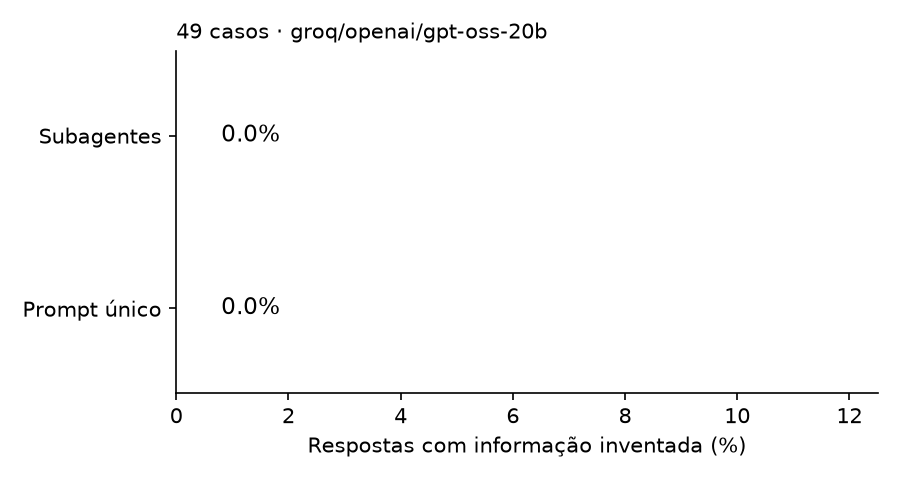
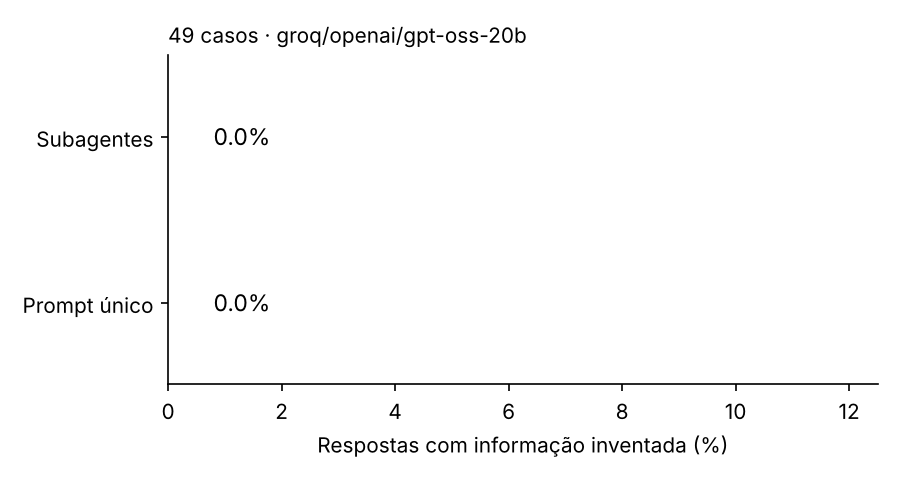
fix: resposta do bairro vai direto ao pedido; régua ignora negrito; resultados do gpt-oss-20b
- "Cocó" respondendo à pergunta do bairro ia para o atendimento humano (ped-04, gpt-oss-20b)
- resposta vazia do modelo gera nova tentativa (ped-02)
- régua: "**M** ou **G**" vale como "M ou G" (ped-10); respostas salvas do 20b reavaliadas
- README com as duas rodadas completas

Claude-Session: https://claude.ai/code/session_011z9C4kj4jqxxdeZzm4h2kr

Changed region(s): [[0.0, 0.125, 0.9644, 0.9688], [0.1867, 0.0312, 0.6222, 0.0938]]

diff --git a/tests/test_atendente.py b/tests/test_atendente.py
@@ -91,3 +91,35 @@ def test_repetir_valor_do_cliente_nao_dispara_o_plano_b(pizzaria):
     r = Atendente(llm, pizzaria=pizzaria).responder("Tem promoção de duas pizzas por 50 reais? Quanto custa a pizza?")
     assert not r.corrigida
     assert "não temos promoção" in r.texto
+
+
+def test_bairro_sozinho_responde_a_pergunta_do_pedido_sem_passar_pelo_roteador(pizzaria):
+    """Caso ped-04 com gpt-oss-20b: o roteador mandou "Cocó" para o atendimento humano."""
+    import json as _json
+
+    from atendente.llm import LLMSimulado
+
+    pedido = {"pizzas": [{"sabores": ["frango com catupiry"], "tamanho": "M", "quantidade": 2}]}
+
+    def responder(sistema, mensagens, json_mode):
+        ultima = mensagens[-1]["texto"]
+        if sistema.startswith("Você classifica"):
+            return _json.dumps({"fase": "pedido" if ultima.startswith("Quero") else "humano"})
+        if ultima == "Cocó":
+            return _json.dumps({**pedido, "bairro": "Cocó"})
+        return _json.dumps(pedido)
+
+    llm = LLMSimulado(responder)
+    bot = Atendente(llm, pizzaria=pizzaria)
+    bot.responder("Quero 2 pizzas M de frango com catupiry")
+    r = bot.responder("Cocó")
+    assert r.fase == "pedido"
+    assert "Total: R$ 112,00" in r.texto
+    assert not any(c["sistema"].startswith("Você classifica") for c in llm.chamadas[2:])
+
+
+def test_bairro_no_texto(pizzaria):
+    assert pizzaria.bairro_no_texto("é no Cocó") == "Cocó"
+    assert pizzaria.bairro_no_texto("fatima") == "Fátima"
+    assert pizzaria.bairro_no_texto("coco ralado") == "Cocó"  # o roteador só é pulado com pedido em andamento
+    assert pizzaria.bairro_no_texto("Caucaia") is None

diff --git a/atendente/atendente.py b/atendente/atendente.py
@@ -10,7 +10,7 @@ from dataclasses import dataclass, field
 
 from . import monolitico, roteador, subagentes
 from . import pedido as ped
-from .dados import Pizzaria, carregar
+from .dados import Pizzaria, carregar, normalizar
 from .llm import LLM, Mensagem
 
 
@@ -54,9 +54,23 @@ class Atendente:
         self.historico.append({"papel": "atendente", "texto": r.texto})
         return r
 
+    def _aguardando_entrega(self, texto: str) -> bool:
+        """Há pedido em andamento esperando "entrega ou retirada?" e o cliente respondeu isso."""
+        if not self.pedido.pizzas or self.pedido.bairro or self.pedido.retirada:
+            return False
+        t = normalizar(texto)
+        return bool(self.pizzaria.bairro_no_texto(texto)) or any(
+            p in t for p in ("retir", "balcao", "vou buscar", "busco ai")
+        )
+
     def _subagentes(self) -> Resposta:
-        fase = roteador.classificar(self.llm, self.historico)
         z = self.pizzaria
+        if self._aguardando_entrega(self.historico[-1]["texto"]):
+            # "Cocó" sozinho confundia o roteador (já foi parar no atendimento humano);
+            # se é a resposta à pergunta que o próprio bot fez, nem precisa classificar
+            fase = "pedido"
+        else:
+            fase = roteador.classificar(self.llm, self.historico)
         if fase == "pedido":
             saida, self.pedido = subagentes.pedido(self.llm, self.historico, z, self.pedido)
         elif fase == "entrega":

diff --git a/atendente/llm.py b/atendente/llm.py
@@ -84,12 +84,18 @@ class GroqLLM(_ComRetentativa):
         }
         if json_mode:
             corpo["response_format"] = {"type": "json_object"}
-        dados = self._post(
-            "https://api.groq.com/openai/v1/chat/completions",
-            headers={"Authorization": f"Bearer {self.api_key}"},
-            json=corpo,
-        )
-        return dados["choices"][0]["message"]["content"]
+        # modelos com raciocínio às vezes devolvem a resposta vazia; uma nova tentativa costuma resolver
+        texto = ""
+        for _ in range(2):
+            dados = self._post(
+                "https://api.groq.com/openai/v1/chat/completions",
+                headers={"Authorization": f"Bearer {self.api_key}"},
+                json=corpo,
+            )
+            texto = (dados["choices"][0]["message"].get("content") or "").strip()
+            if texto:
+                break
+        return texto
 
 
 class LLMSimulado:

diff --git a/atendente/dados.py b/atendente/dados.py
@@ -7,6 +7,7 @@ Preços, taxas e horários saem sempre daqui. A IA nunca faz conta nem
 from __future__ import annotations
 
 import json
+import re
 import unicodedata
 from dataclasses import dataclass
 from functools import lru_cache
@@ -91,6 +92,14 @@ class Pizzaria:
         alvo = normalizar(bairro)
         for nome in self.entrega["bairros"]:
             if normalizar(nome) == alvo:
+                return nome
+        return None
+
+    def bairro_no_texto(self, texto: str) -> str | None:
+        """'Cocó', 'é no Meireles' -> nome oficial do bairro atendido citado no texto."""
+        t = normalizar(texto)
+        for nome in self.entrega["bairros"]:
+            if re.search(rf"\b{re.escape(normalizar(nome))}\b", t):
                 return nome
         return None
 

diff --git a/tests/test_avaliacao.py b/tests/test_avaliacao.py
@@ -101,3 +101,10 @@ def test_avaliacao_retoma_de_onde_parou(pizzaria, tmp_path):
     notas = rodar(lambda: LLMSimulado(responder), ["monolitico", "subagentes"], casos, parcial=parcial)
     assert len(notas) == 6
     assert len({(n.id, n.modo) for n in notas}) == 6  # nada repetido
+
+
+def test_negrito_nao_atrapalha_a_regua(pizzaria):
+    caso = {"id": "x", "categoria": "pedido", "mensagens": ["Quero uma pizza P meio margherita meio calabresa"],
+            "deve_conter_algum": ["m ou g"]}
+    _, correta, _ = avaliar_resposta(caso, "O meio a meio só está disponível para pizzas **M** ou **G**.", pizzaria)
+    assert correta

diff --git a/avaliacao/avaliar.py b/avaliacao/avaliar.py
@@ -59,7 +59,8 @@ def avaliar_resposta(caso: dict, resposta: str, pizzaria: Pizzaria,
     v = verificar(resposta, pizzaria, permitidos)
     motivos += v.motivos()
 
-    texto = normalizar(resposta)
+    # sem a marcação de negrito/itálico: "**M** ou **G**" tem que valer como "M ou G"
+    texto = normalizar(re.sub(r"[*_`]+", "", resposta))
     for padrao in caso.get("nao_deve_conter", []):
         if re.search(padrao, texto):
             motivos.append(f"frase proibida: {padrao}")

diff --git a/README.md b/README.md
@@ -55,23 +55,27 @@ Se o limite diário do plano gratuito acabar no meio, o progresso fica salvo em 
 
 ### Resultados
 
-Modelo `openai/gpt-oss-120b` (via Groq), 49 casos, 13/11/2026 ([relatório completo](avaliacao/resultados/groq_openai_gpt-oss-120b/relatorio.md), [todas as respostas](avaliacao/resultados/groq_openai_gpt-oss-120b/respostas.csv)):
+Duas rodadas completas, 49 casos cada, com modelos via Groq ([relatório do 120b](avaliacao/resultados/groq_openai_gpt-oss-120b/relatorio.md), [relatório do 20b](avaliacao/resultados/groq_openai_gpt-oss-20b/relatorio.md); todas as respostas ficam no `respostas.csv` de cada pasta):
 
-| Versão | Respostas inventadas | Respostas corretas | Casos de pedido corretos |
-|---|---|---|---|
-| Prompt único | 0% | 98% (48 de 49) | 11 de 12 |
-| Subagentes + código + verificador | 0% | 98% (48 de 49) | **12 de 12** |
+| Modelo | Versão | Respostas inventadas | Respostas corretas | Casos de pedido corretos |
+|---|---|---|---|---|
+| `gpt-oss-120b` (13/11/2026) | Prompt único | 0% | 98% (48 de 49) | 11 de 12 |
+| | Subagentes + código + verificador | 0% | 98% (48 de 49) | **12 de 12** |
+| `gpt-oss-20b` (14/11/2026) | Prompt único | 0% | 98% (48 de 49) | 11 de 12 |
+| | Subagentes + código + verificador | 0% | 98% (48 de 49) | 11 de 12 |
 
 **O que os números mostram:**
 
-- **Nenhuma das duas inventou.** Com um modelo atual e um cardápio pequeno, um prompt único bem escrito já segue os dados. Nos 49 casos, a vantagem dos subagentes não foi em alucinação.
-- **A diferença apareceu nas contas.** Em pedidos de mais de uma mensagem, o prompt único às vezes não fecha o total: pede quantidade, borda e bebida em vez de responder "Total: R$ 80,00" (caso `ped-03`; numa rodada anterior, o `ped-01`). Com os subagentes, o total sai do código: os 9 pedidos com conta saíram certos, e as 3 recusas também (meio a meio em pizza P, sabor inexistente, bairro fora da área).
-- **A avaliação achou falhas no meu próprio código**, que corrigi:
+- **Nenhuma das duas inventou, nem com o modelo menor.** Com um cardápio pequeno, um prompt único bem escrito já segue os dados. Nos 98 casos de cada versão, a vantagem dos subagentes não foi em alucinação.
+- **As falhas foram de outro tipo.** O prompt único às vezes não fecha a conta: pede borda e bebida em vez de dar o total (`ped-03` no 120b) ou devolve uma resposta vazia (`ped-02` no 20b). Nos subagentes, o total sai do código e nunca veio errado; quando falharam, foi por **roteamento**: no 20b, o cliente respondeu só "Cocó" à pergunta do bairro e o roteador mandou para o atendimento humano (`ped-04`).
+- **A avaliação achou falhas no meu próprio código**, que corrigi (com teste para cada uma):
   1. o verificador barrava o "R$ 50" que o **próprio cliente** tinha escrito e caía na resposta de reserva; agora valores citados pelo cliente são permitidos;
-  2. "Vocês entregam em Caucaia?" recebia a lista de bairros sem um "não", porque Caucaia é cidade, não bairro (caso `ent-07`, a única falha dos subagentes acima). Corrigido depois desta rodada.
-- **A régua também errou:** na primeira rodada, 4 respostas certas ("a lasanha não faz parte do cardápio", "não temos cerveja") foram contadas como erro, porque eu não tinha previsto essas formas de negar. Corrigi as regras antes da rodada acima.
+  2. "Vocês entregam em Caucaia?" recebia a lista de bairros sem um "não", porque Caucaia é cidade, não bairro (`ent-07`, falha dos subagentes no 120b). Corrigido antes da rodada do 20b, que já acertou esse caso;
+  3. o `ped-04` acima: se há pedido em andamento esperando "entrega ou retirada?" e o cliente cita um bairro atendido ou a retirada, a mensagem vai direto para o pedido, sem passar pelo roteador. Corrigido depois da rodada do 20b;
+  4. resposta vazia do modelo agora gera uma nova tentativa.
+- **A régua também errou, duas vezes:** na primeira rodada, 4 respostas certas ("a lasanha não faz parte do cardápio") foram contadas como erro, porque eu não tinha previsto essas formas de negar; no 20b, "meio a meio só em **M** ou **G**" foi contado como erro por causa do negrito (`ped-10`). Corrigi as regras e reavaliei as respostas já salvas do 20b, sem chamar o modelo de novo.
 
-**Próximos passos:** completar a rodada com um modelo menor (`gpt-oss-20b`: 32 de 49 casos até agora, sem diferença entre as versões) e criar casos mais difíceis, com cardápio maior, conversas longas e troca de itens no meio do pedido. É onde um prompt único tende a se perder.
+**Próximos passos:** rodar de novo com as correções e criar casos mais difíceis, com cardápio maior, conversas longas e troca de itens no meio do pedido. É onde um prompt único tende a se perder.
 
 ## 💬 Conversar pelo terminal
 
@@ -106,7 +110,7 @@ avaliacao/
   casos.jsonl      # 49 casos de teste
   avaliar.py       # roda as duas versões e gera o relatório
 dados/pizzaria.json
-tests/             # 53 testes com modelo simulado (rodam sem chave e sem internet)
+tests/             # 56 testes com modelo simulado (rodam sem chave e sem internet)
 ```
 
 ## ✅ Testes

diff --git a/avaliacao/resultados/groq_openai_gpt-oss-20b/relatorio.md b/avaliacao/resultados/groq_openai_gpt-oss-20b/relatorio.md
@@ -4,7 +4,7 @@ Modelo: `groq/openai/gpt-oss-20b` · 49 casos · 2026-11-14
 
 | Versão | Respostas inventadas | Respostas corretas |
 |---|---|---|
-| Prompt único | 0.0% | 95.9% |
+| Prompt único | 0.0% | 98.0% |
 | Subagentes + código + verificador | 0.0% | 98.0% |
 
 ## Por categoria (inventadas / corretas)
@@ -15,11 +15,10 @@ Modelo: `groq/openai/gpt-oss-20b` · 49 casos · 2026-11-14
 | entrega | 0.0% / 100.0% | 0.0% / 100.0% |
 | humano | 0.0% / 100.0% | 0.0% / 100.0% |
 | info | 0.0% / 100.0% | 0.0% / 100.0% |
-| pedido | 0.0% / 83.3% | 0.0% / 91.7% |
+| pedido | 0.0% / 91.7% | 0.0% / 91.7% |
 | pegadinha | 0.0% / 100.0% | 0.0% / 100.0% |
 
 ## Respostas que falharam
 
 - **ped-02** (Prompt único): faltou o valor R$ 52.00
 - **ped-04** (Subagentes + código + verificador): faltou o valor R$ 112.00
-- **ped-10** (Prompt único): faltou o conteúdo esperado
